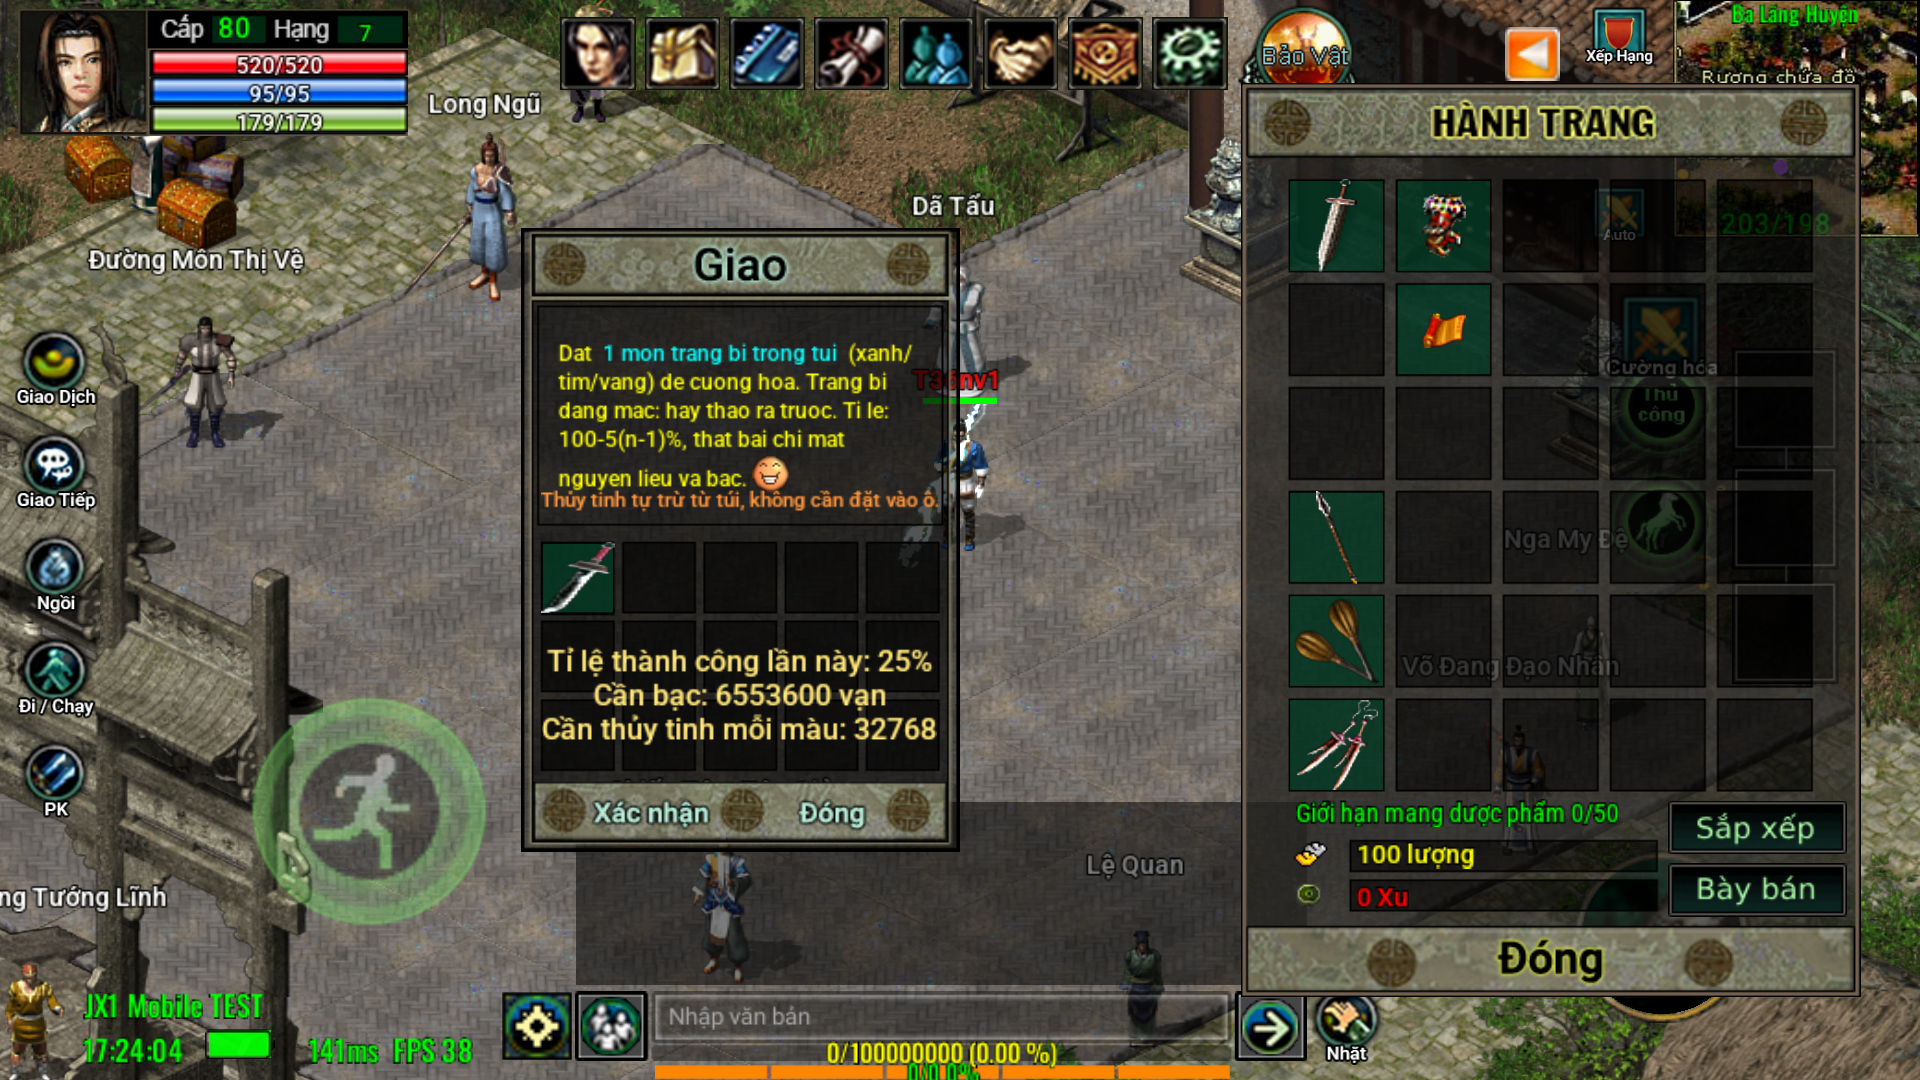
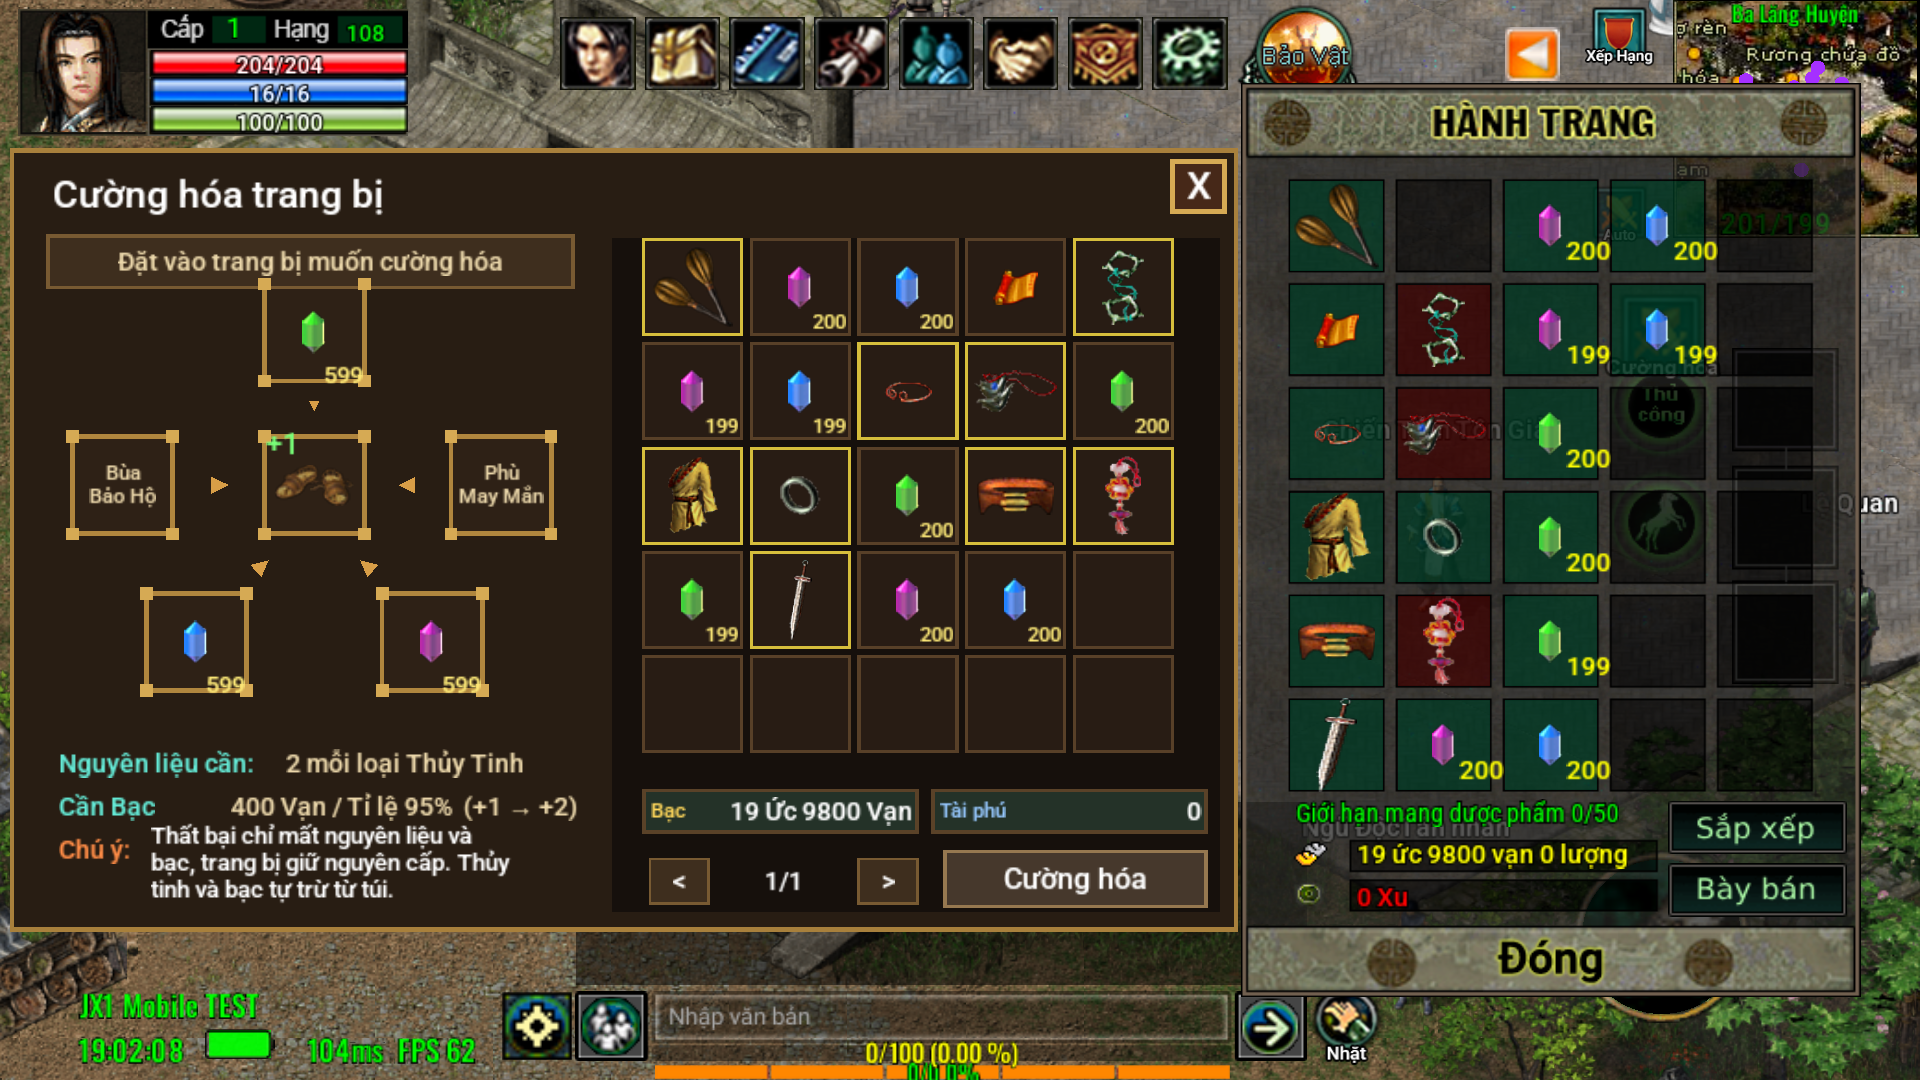
A: UI cuong hoa vc36 anh + bao cao (con thieu d,e, thong bao trong panel)

diff --git a/JX1_OPS/HOP-THU/TU-SONNET.md b/JX1_OPS/HOP-THU/TU-SONNET.md
@@ -1804,3 +1804,13 @@ TÓM TẮT 5 DÒNG
 4. Đã thêm 4 mục thủy tinh/bạc vào menu atest trên VM Test-36 (.bak-menu, chỉ tên atest).
 5. Chưa làm: dựng lại bố cục chuẩn, trần thủy tinh 1000, dấu tiếng Việt, khung kim cương.
 Cần tôi quyết định: không
+
+## A — UI Cuong hoa vc36 lam lai (#350/#351/#352/#354) 21/11 19:05
+TOM TAT:
+1. Panel vc36 theo chuan: tieu de "Cuong hoa trang bi", dong goi y, so do 5 o quanh o giua, mui ten, nut Cuong hoa, luoi tui + 2 thanh tien, "Nguyen lieu can / Can Bac / Ti le / Chu y"; dau tieng Viet dung; dat sang trai de khong de len hanh trang.
+2. Thuy tinh can = min(2^(n-1),1000) moi loai, hien +n tren o giua; don vi van = 10000 bac (+1->+2 = 400 van, khop man hinh).
+3. Khung kim cuong: KHONG tim thay (XD-UI01 PARTIAL, ui.pak/spr.pak khong co trong ban copy client) -> dung khung don gian dung thu tu. Anh: EVIDENCE/ui-cuonghoa/ (a, b, c, f moi; d, e chua chup lai).
+4. CHUA DAT: sau khi cuong hoa xong, cua so tu dong dong (UI give bi server/Lua dong) nen thong bao hien o khung chat chu khong trong panel (anh c); d (thieu thuy tinh) / e (thieu bac) chua chup vc36.
+5. Mat khau atest lay tu kho rieng, khong in/ghi. #354: chua kiem bot/relog tu chay; con lai lam tiep.
+Can toi quyet dinh: khong
+DA DOC SO TAY: HIEU-GAME/08-giao-dien/SO-TAY-GIAO-DIEN.md, SO-TAY-TAI-NGUYEN-CLIENT.md

diff --git a/JX1_OPS/STATE/TIEU-YEU.md b/JX1_OPS/STATE/TIEU-YEU.md
@@ -1,4 +1,4 @@
-# TIỂU YÊU (Tổng quản tự sinh lúc 2026-11-21 18:59, đừng sửa tay)
+# TIỂU YÊU (Tổng quản tự sinh lúc 2026-11-21 19:03, đừng sửa tay)
 
 **CẦU DAO xingchi: ĐÓNG (bình thường)**
 
@@ -6,7 +6,7 @@ Mức: SONG / IM-NHUNG-SONG (20–60 phút) / TREO (>60, bị dừng chạy lạ
 
 | Mã | Mức | Khóa | Log cuối | Dấu hiệu sống cuối | Lỗi cuối | Lần chạy lại | Mô hình | PID | Chờ token (giây) |
 |---|---|---|---|---|---|---|---|---|---|
-| HG-S2 | SONG | JX-K4 | 18:59 | 18:59 | - | 0 | sol | - | <=19 |
+| HG-S2 | SONG | JX-K4 | 19:03 | 19:03 | - | 0 | sol | - | <=19 |
 | SC-001 | XONG-CHO-GOP | JX-K4 | 19:22 | 19:22 | - | 0 | sol | - | - |
 | XD-UI01 | XONG-CHO-GOP | JX-K4 | 18:39 | 18:39 | - | 0 | sol | - | - |
 

diff --git a/JX1_OPS/STATE/SONNET-SONG.md b/JX1_OPS/STATE/SONNET-SONG.md
@@ -1,3 +1,3 @@
-Sonnet A: hoạt động cuối 18:56:08 (3 phút trước); commit cuối 18:56; mức SONG (<10 SONG / 10-30 IM / >30 TREO). Cập nhật 18:59:31
-Sonnet B: hoạt động cuối 18:56:15 (3 phút trước); commit cuối 18:56; mức SONG
-RAM: trống 15.0/47.9 GB (31%). Top 5 bộ nhớ: Memory Compression 1.11 GB; browser 0.82 GB; claude 0.64 GB; chrome 0.62 GB; claude 0.57 GB
+Sonnet A: hoạt động cuối 19:03:30 (0 phút trước); commit cuối 19:02; mức SONG (<10 SONG / 10-30 IM / >30 TREO). Cập nhật 19:03:31
+Sonnet B: hoạt động cuối 18:56:15 (7 phút trước); commit cuối 18:56; mức SONG
+RAM: trống 14.6/47.9 GB (30%). Top 5 bộ nhớ: Memory Compression 1.11 GB; browser 0.80 GB; claude 0.64 GB; chrome 0.63 GB; claude 0.59 GB

diff --git a/JX1_OPS/STATE/KHOA-XINGCHI.md b/JX1_OPS/STATE/KHOA-XINGCHI.md
@@ -1,4 +1,4 @@
-# KHÓA XINGCHI (Tổng quản tự sinh lúc 2026-11-21 18:59; KHÔNG chứa giá trị khóa)
+# KHÓA XINGCHI (Tổng quản tự sinh lúc 2026-11-21 19:03; KHÔNG chứa giá trị khóa)
 
 Trần 20 khóa / ≤4 tiểu yêu mỗi khóa. Quy trình: `DESIGN/QUY-TRINH-TAO-KHOA.md`.
 

diff --git a/JX1_OPS/STATE/TONG-QUAN-GHI.md b/JX1_OPS/STATE/TONG-QUAN-GHI.md
@@ -1703,3 +1703,5 @@
 [TỔNG QUẢN 21/11 18:55] CAU DAO xingchi: DONG
 [TỔNG QUẢN 21/11 18:57] CAU DAO xingchi: DONG
 [TỔNG QUẢN 21/11 18:59] CAU DAO xingchi: DONG
+[TỔNG QUẢN 21/11 19:01] CAU DAO xingchi: DONG
+[TỔNG QUẢN 21/11 19:03] CAU DAO xingchi: DONG
